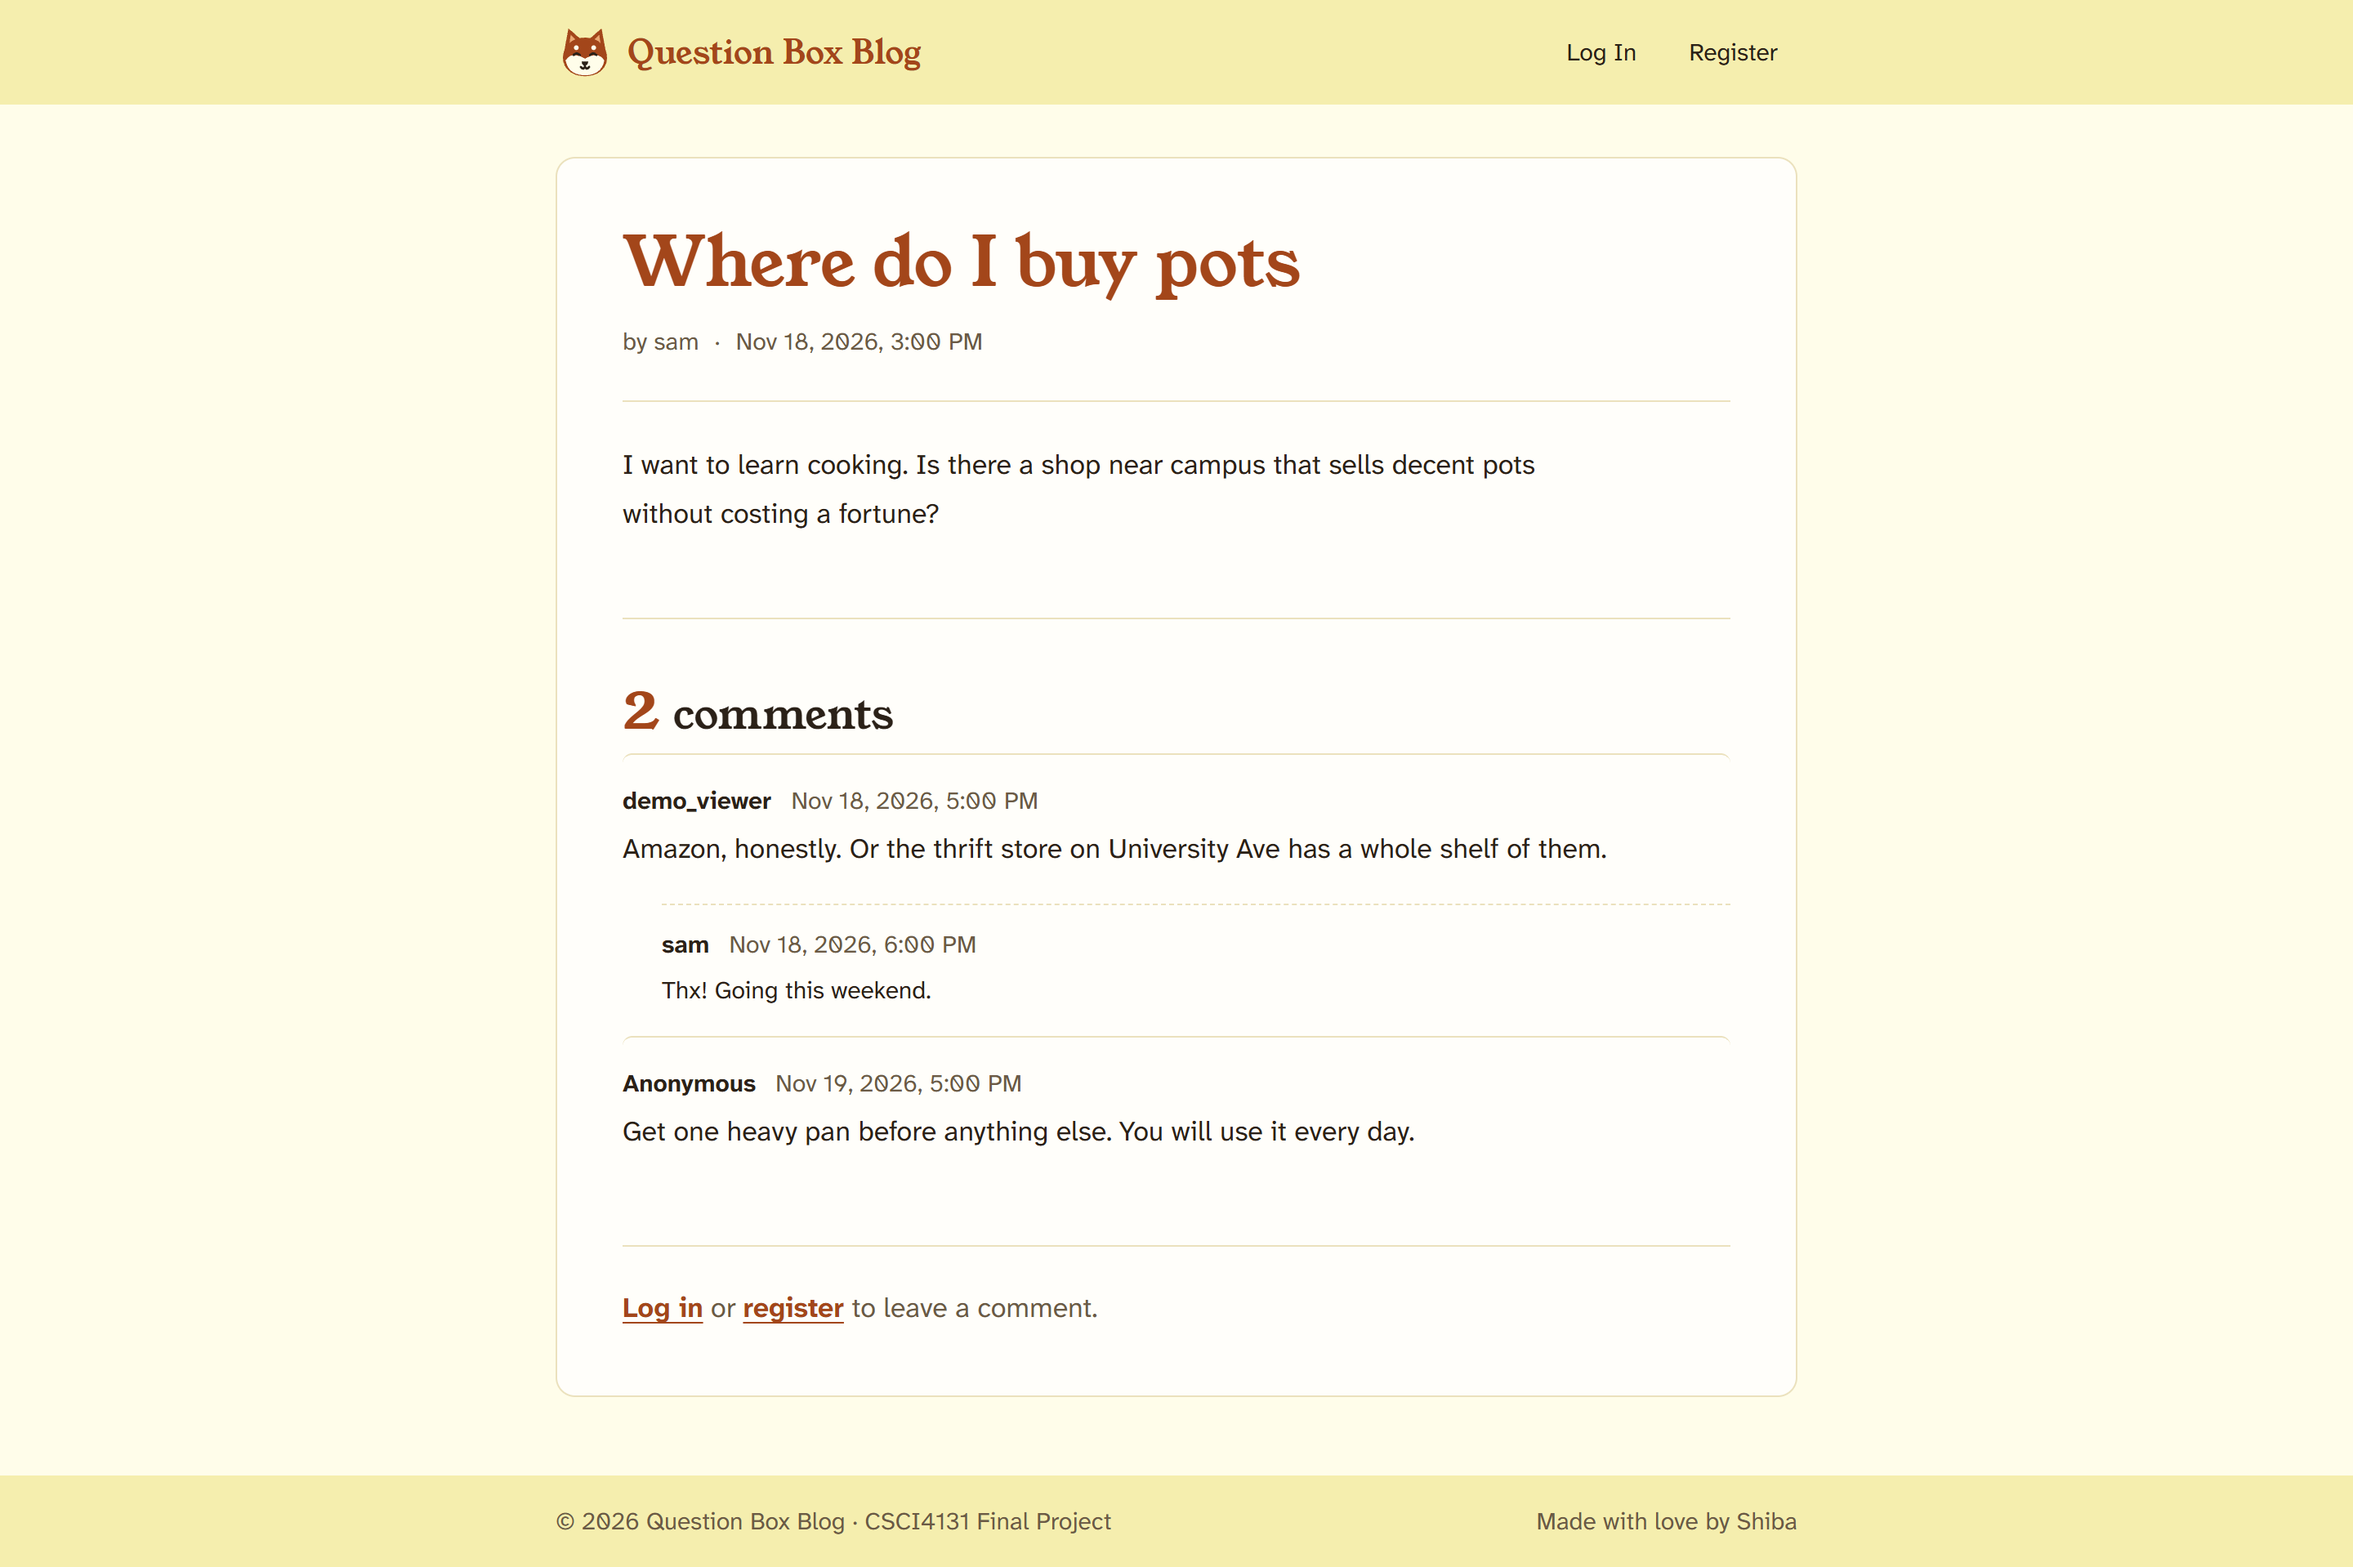
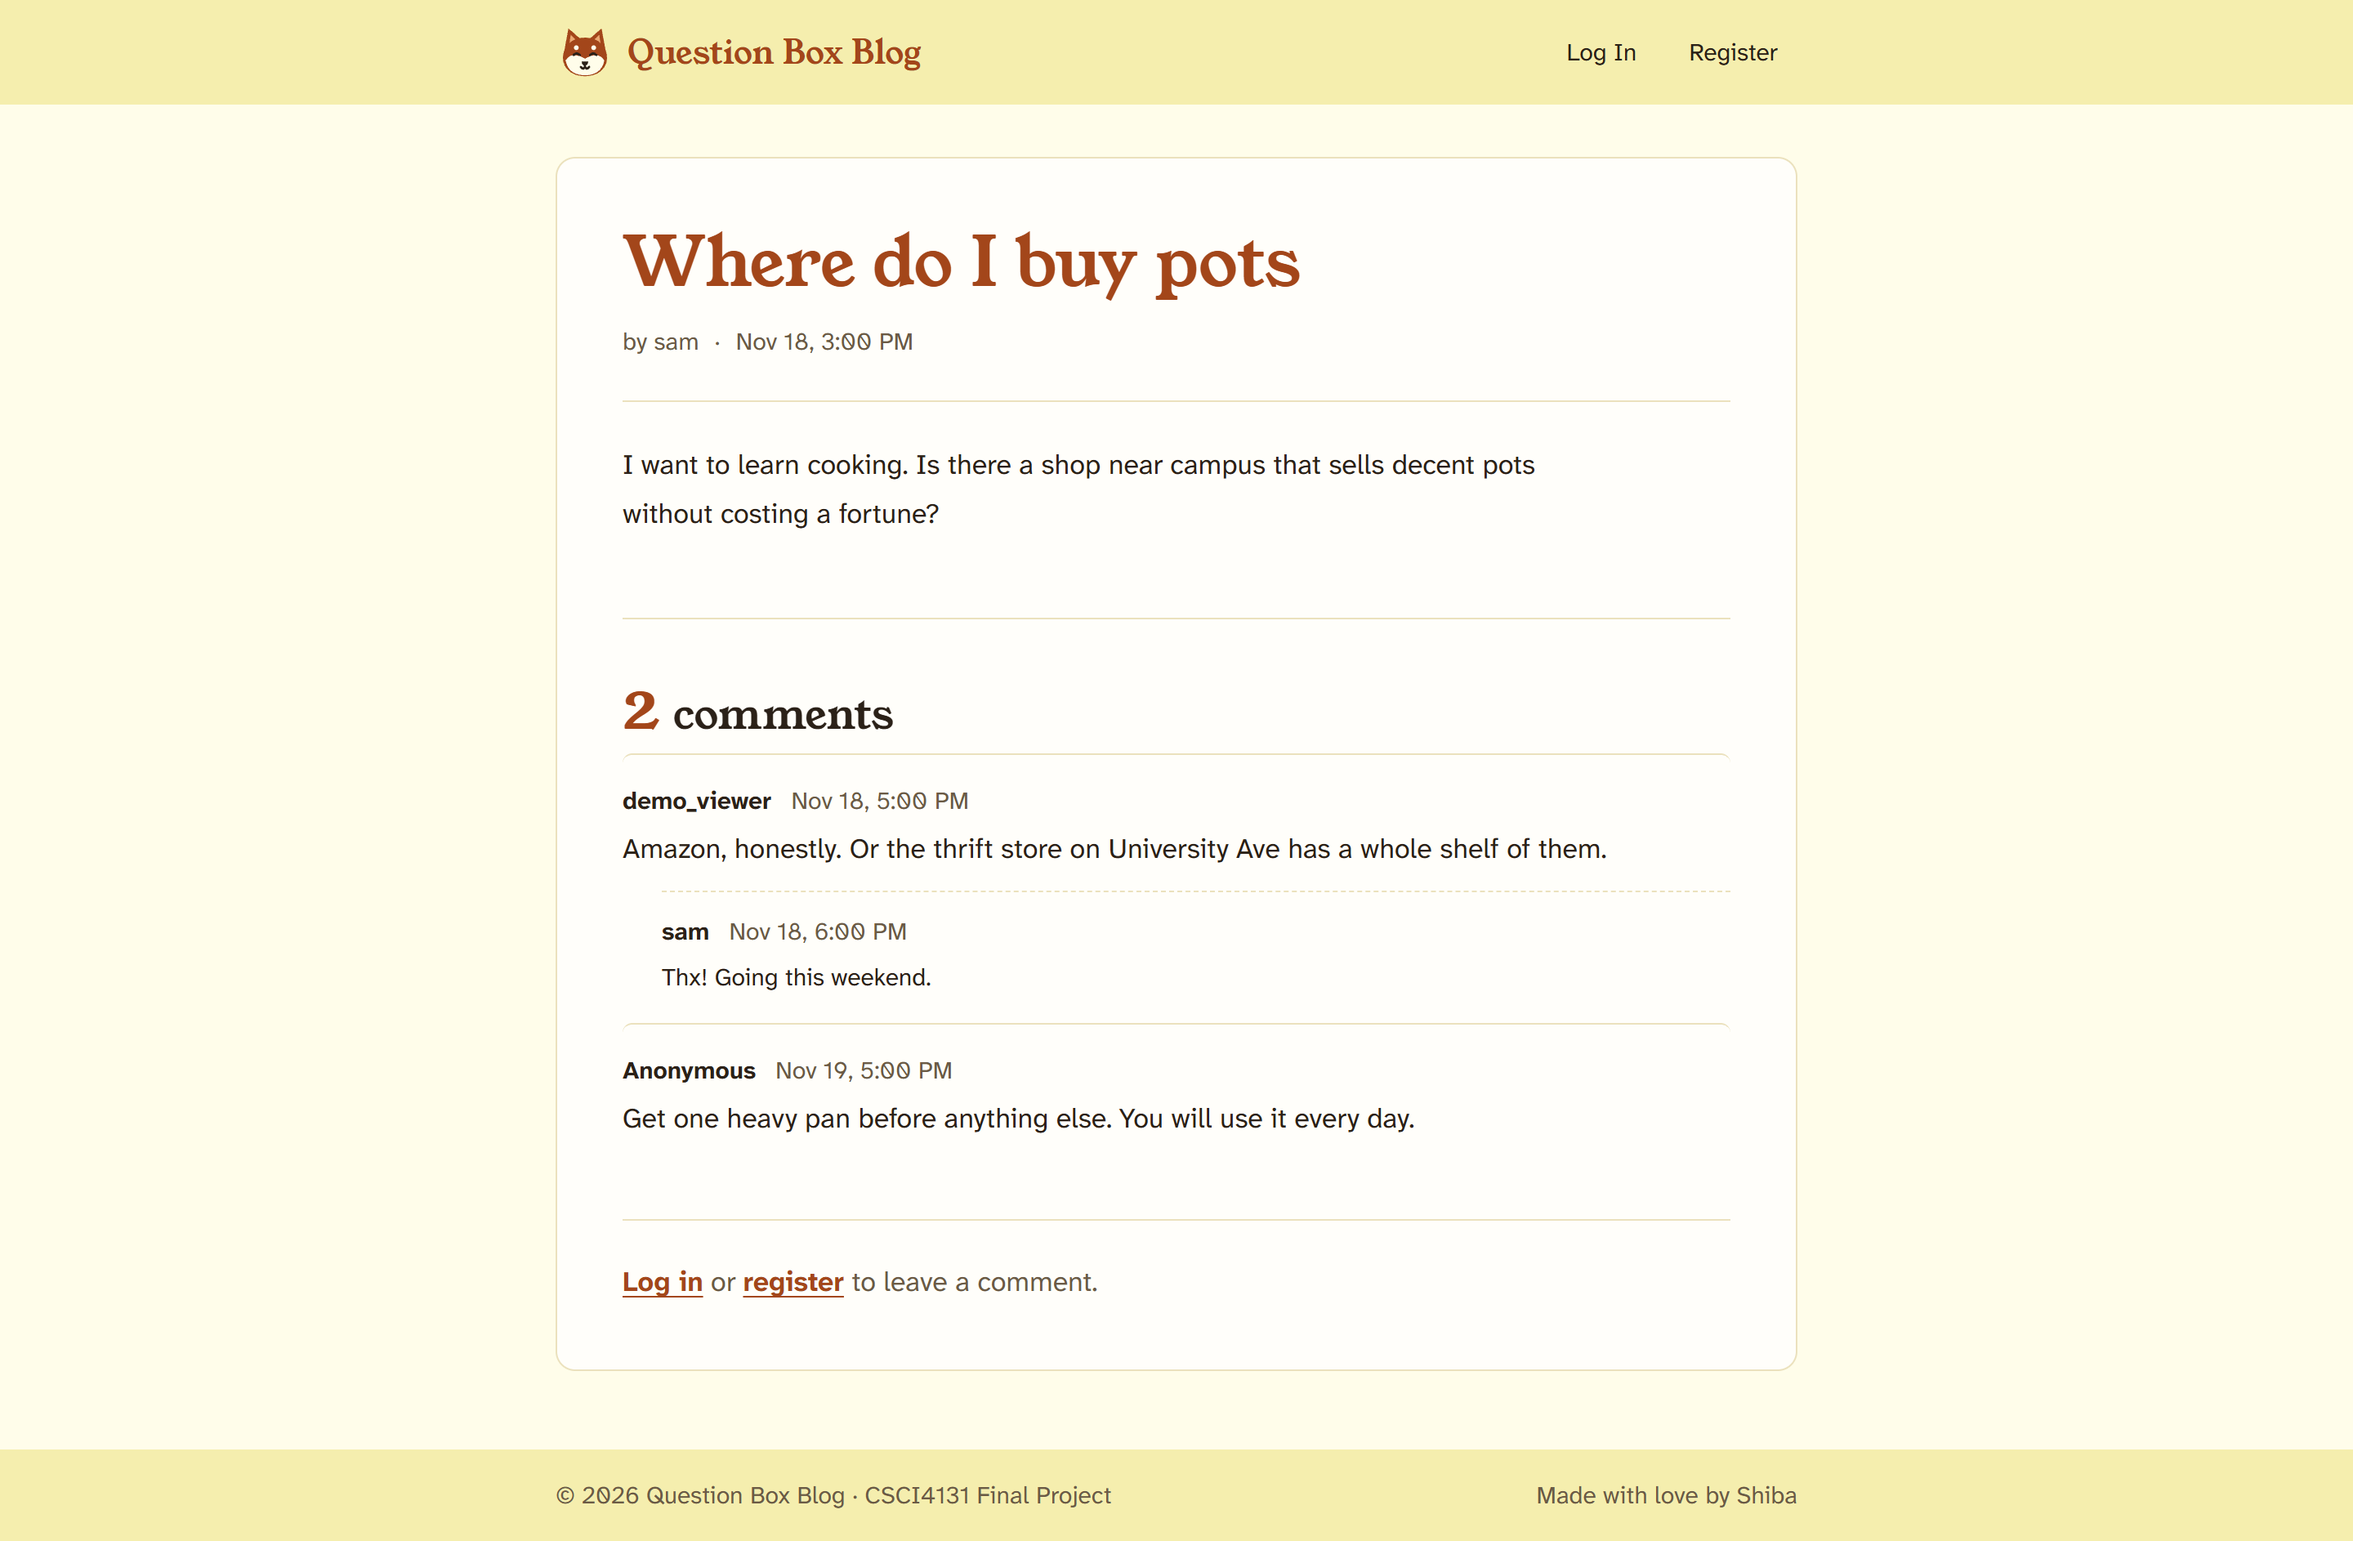
style: Reply rule once, quiet empty heading, inline errors, shorter dates
The P1/P2 items from the 28/40 critique:

- /impeccable distill: the reply rule appears once under the comments
  heading, and only for a reader who can't reply to some comment,
  instead of under every such comment.
- /impeccable clarify: with no comments the heading is a muted
  "Comments" with no numeral, so the sleepy-Shiba empty state leads;
  main.js switches it as comments come and go.
- /impeccable harden: blank or spaces-only required fields show the
  styled inline error in the browser too (aria-invalid,
  aria-describedby, focus on the first), never the native bubble.
- /impeccable typeset: dates in the current year drop the year
  ("Nov 27, 5:20 PM"), which also removes Atkinson's slashed zero from
  every meta line.
- DESIGN.md and the "after" screenshots updated.

diff --git a/resources/js/main.js b/resources/js/main.js
@@ -32,18 +32,67 @@ document.addEventListener('DOMContentLoaded', () => {
         }
     };
 
-    // Required text fields reject spaces-only input before anything is sent;
-    // the server checks the same rule.
-    document.addEventListener('input', (e) => {
-        const field = e.target;
-        if (!field.matches('input[required][type="text"], textarea[required]')) {
+    // Required text fields reject empty and spaces-only input before
+    // anything is sent (the server checks the same rule). The message is the
+    // same styled inline error the server renders, not the browser bubble.
+    const REQUIRED = 'input[required][type="text"], textarea[required]';
+
+    function blankMessage(field) {
+        if (field.value === '') return 'Write something here first.';
+        if (field.value.trim() === '') {
+            return "Spaces alone don't count. Write something here.";
+        }
+        return '';
+    }
+
+    function setFieldError(field, message) {
+        const id = `${field.id}-error`;
+        let error = document.getElementById(id);
+        const group = field.closest('.form-group');
+        if (!message) {
+            if (error) error.remove();
+            field.removeAttribute('aria-invalid');
+            field.removeAttribute('aria-describedby');
+            if (group) group.classList.remove('has-error');
             return;
         }
-        field.setCustomValidity(
-            field.value !== '' && field.value.trim() === ''
-                ? "Spaces alone don't count. Write something here."
-                : '');
+        if (!error) {
+            error = document.createElement('p');
+            error.className = 'field-error';
+            error.id = id;
+            field.after(error);
+        }
+        error.textContent = message;
+        field.setAttribute('aria-invalid', 'true');
+        field.setAttribute('aria-describedby', id);
+        if (group) group.classList.add('has-error');
+    }
+
+    document.addEventListener('input', (e) => {
+        const field = e.target;
+        if (!field.matches(REQUIRED)) return;
+        const message = blankMessage(field);
+        field.setCustomValidity(message && field.value !== '' ? message : '');
+        // Typing clears an error that's showing; it never adds one early.
+        if (!message || field.getAttribute('aria-invalid') === 'true') {
+            setFieldError(field, message);
+        }
     });
+
+    // On submit, show the inline error instead of the bubble, and put the
+    // cursor in the first field that needs attention.
+    let focusedInvalid = false;
+    document.addEventListener('invalid', (e) => {
+        const field = e.target;
+        if (!field.matches(REQUIRED) || !field.id) return;
+        e.preventDefault();
+        setFieldError(field, blankMessage(field) || field.validationMessage);
+        if (!focusedInvalid) {
+            focusedInvalid = true;
+            field.focus();
+            queueMicrotask(() => { focusedInvalid = false; });
+        }
+    }, true);
 
     // The server names a draft to drop after it saved that form for real.
     if (document.body.dataset.clearDraft) {
@@ -288,8 +337,10 @@ document.addEventListener('DOMContentLoaded', () => {
         const next = Math.max(0, (parseInt(countEl.textContent, 10) || 0) + delta);
         countEl.textContent = String(next);
         if (countLabelEl) {
-            countLabelEl.textContent = next === 1 ? 'comment' : 'comments';
+            countLabelEl.textContent =
+                next === 0 ? 'Comments' : next === 1 ? 'comment' : 'comments';
         }
+        if (heading) heading.classList.toggle('is-empty', next === 0);
     }
 
     function el(tag, className, text) {

diff --git a/server.js b/server.js
@@ -63,6 +63,15 @@ function takeReturnTo(req) {
 // One date format for question boxes, comments and replies: no seconds.
 // The comment and reply APIs send created_label from this too, so items
 // added in the browser show the same clock time as server-rendered ones.
+// Dates in the current year leave the year out ("Nov 27, 5:20 PM"): it is
+// noise in every meta line, and Atkinson's slashed zero made "2026" read
+// oddly. Older dates keep it.
+const dateFormatThisYear = new Intl.DateTimeFormat('en-US', {
+    month : 'short',
+    day : 'numeric',
+    hour : 'numeric',
+    minute : '2-digit'
+});
 const dateFormat = new Intl.DateTimeFormat('en-US', {
     month : 'short',
     day : 'numeric',
@@ -73,7 +82,11 @@ const dateFormat = new Intl.DateTimeFormat('en-US', {
 
 function formatDate(value) {
     const date = value instanceof Date ? value : new Date(value);
-    return Number.isNaN(date.getTime()) ? '' : dateFormat.format(date);
+    if (Number.isNaN(date.getTime())) return '';
+    const format = date.getFullYear() === new Date().getFullYear()
+                       ? dateFormatThisYear
+                       : dateFormat;
+    return format.format(date);
 }
 
 // List previews: whitespace collapsed, cut on a word boundary within the

diff --git a/resources/css/main.css b/resources/css/main.css
@@ -734,6 +734,15 @@ main:focus {
   color: var(--color-accent);
 }
 
+/* No comments yet: a muted "Comments" heading, and the empty state leads. */
+#comments-heading.is-empty .comments-count {
+  display: none;
+}
+
+#comments-heading.is-empty .comments-label {
+  color: var(--color-ink-muted);
+}
+
 .comments-header {
   display: flex;
   flex-wrap: wrap;
@@ -913,6 +922,15 @@ main:focus {
   background-color: var(--color-secondary);
   border-color: var(--color-border-strong);
   color: var(--color-ink);
+}
+
+.comment-actions:empty {
+  display: none;
+}
+
+/* Said once under the heading, and only to someone it limits. */
+.comments-section > .reply-rule {
+  margin-bottom: var(--space-2);
 }
 
 .reply-rule {

diff --git a/DESIGN.md b/DESIGN.md
@@ -223,7 +223,7 @@ Line heights: `--leading-tight` 1.15 (headings), `--leading-snug` 1.35 (buttons,
 - Titles, bodies, comments and author names use `overflow-wrap: anywhere`, so one very long word wraps instead of overflowing.
 - Meta lines (author · date · comments) are `--text-sm` in Bark, separated by middle dots. They support the title and never compete with it. Every item carries a leading dot that is clipped at the start of a line, so a wrapped meta line never opens with "·". In the list, a non-zero comment count is bold Shiba Black ("No comments yet" stays muted), so rows with a conversation stand out.
 - **List hierarchy:** title in Young Serif `--text-lg`, Shiba Black, turning red-tan with an underline on hover or focus; then the meta line; then the preview at `--text-sm`. Every list title in red-tan made the list a monotone wall, so the accent is reserved for the page h1 and for the row under the pointer.
-- Dates use one format everywhere, with no seconds: `Nov 27, 2026, 3:04 PM` (`formatDate` in `server.js`, the same `Intl.DateTimeFormat` options in `main.js`). They render in `<time datetime>`.
+- Dates use one format everywhere, with no seconds: `Nov 27, 3:04 PM` in the current year and `Nov 27, 2025, 3:04 PM` otherwise (the year is noise in every meta line, and Atkinson's slashed zero made "2026" read oddly) (`formatDate` in `server.js`, the same `Intl.DateTimeFormat` options in `main.js`). They render in `<time datetime>`.
 
 ## Layout
 
@@ -265,7 +265,8 @@ Three roles that are distinct in fill as well as hue, so they can't be confused 
 ### Cards / Containers
 - **Content surface:** Paper, with a 1px hairline border, 10px corners and 30px padding. It is the only container.
 - **Question boxes in the list:** not cards. Each is an `article` row divided by hairlines; the title link's `::after` covers the whole row, so the row is one link target. Keyboard focus outlines the whole row. The preview is cut on a word boundary (200-character budget) and clamped to three lines.
-- **Comment count:** the thread's heading leads with the count as a red-tan Young Serif numeral at `--text-xl`, then "comment"/"comments" at `--text-lg` (`main.js` keeps both in sync).
+- **Comment count:** the thread's heading leads with the count as a red-tan Young Serif numeral at `--text-xl`, then "comment"/"comments" at `--text-lg` (`main.js` keeps both in sync). With no comments the numeral hides and the heading is a muted "Comments", so the sleepy-Shiba empty state leads.
+- **Reply rule:** "Only the question box author, the commenter or an admin can reply." appears once under the heading, and only for a logged-in reader who can't reply to at least one comment.
 - **One composer at a time:** while any reply form is open, Add Comment steps down to the secondary look, so Add Reply is the only filled button.
 - **Comment thread order:** the count heading (with a "Write a comment" jump link when there are comments), then the comments, then the "Leave a Comment" form, or the guest's log-in prompt, closing the thread after a hairline and `--space-6`. Reading comes before writing; a new comment lands just above the form.
 - **Comments and replies:** rows divided by hairlines. Replies are indented 24px under their comment with dashed dividers. A just-posted comment or reply gets a short Sun Wash tint.
@@ -280,7 +281,7 @@ Three roles that are distinct in fill as well as hue, so they can't be confused 
 - **Admin badge:** a Shiba Black pill with a Tan on Black paw and the label "Admin". It is the one dark element on the page, so admin mode is unmistakable.
 
 ### Field errors
-Required text fields reject input that is only spaces or blank lines, in the browser ("Spaces alone don't count. Write something here.") and on the server. When the question box form comes back from the server, it keeps what was typed and puts the message directly under the field in bold Deep Warning Red, with a Warning Red field border, `aria-invalid` and focus on the first problem field.
+Required text fields reject empty input and input that is only spaces or blank lines, in the browser and on the server. Either way the message sits directly under the field in bold Deep Warning Red ("Write something here first." / "Spaces alone don't count. Write something here."), with a Warning Red field border, `aria-invalid`, `aria-describedby` and focus on the first problem field; the browser's validation bubble is never shown. Typing clears the error. When the question box form comes back from the server, it keeps what was typed.
 
 ### Admin reveal
 On an anonymous comment or reply, admins see a small pill in the author line: a paw and "Posted anonymously by **name**", in the Admin badge's Shiba Black and Tan on Black, so it reads as admin-only at a glance ("only admins see this" is in the accessible name).
